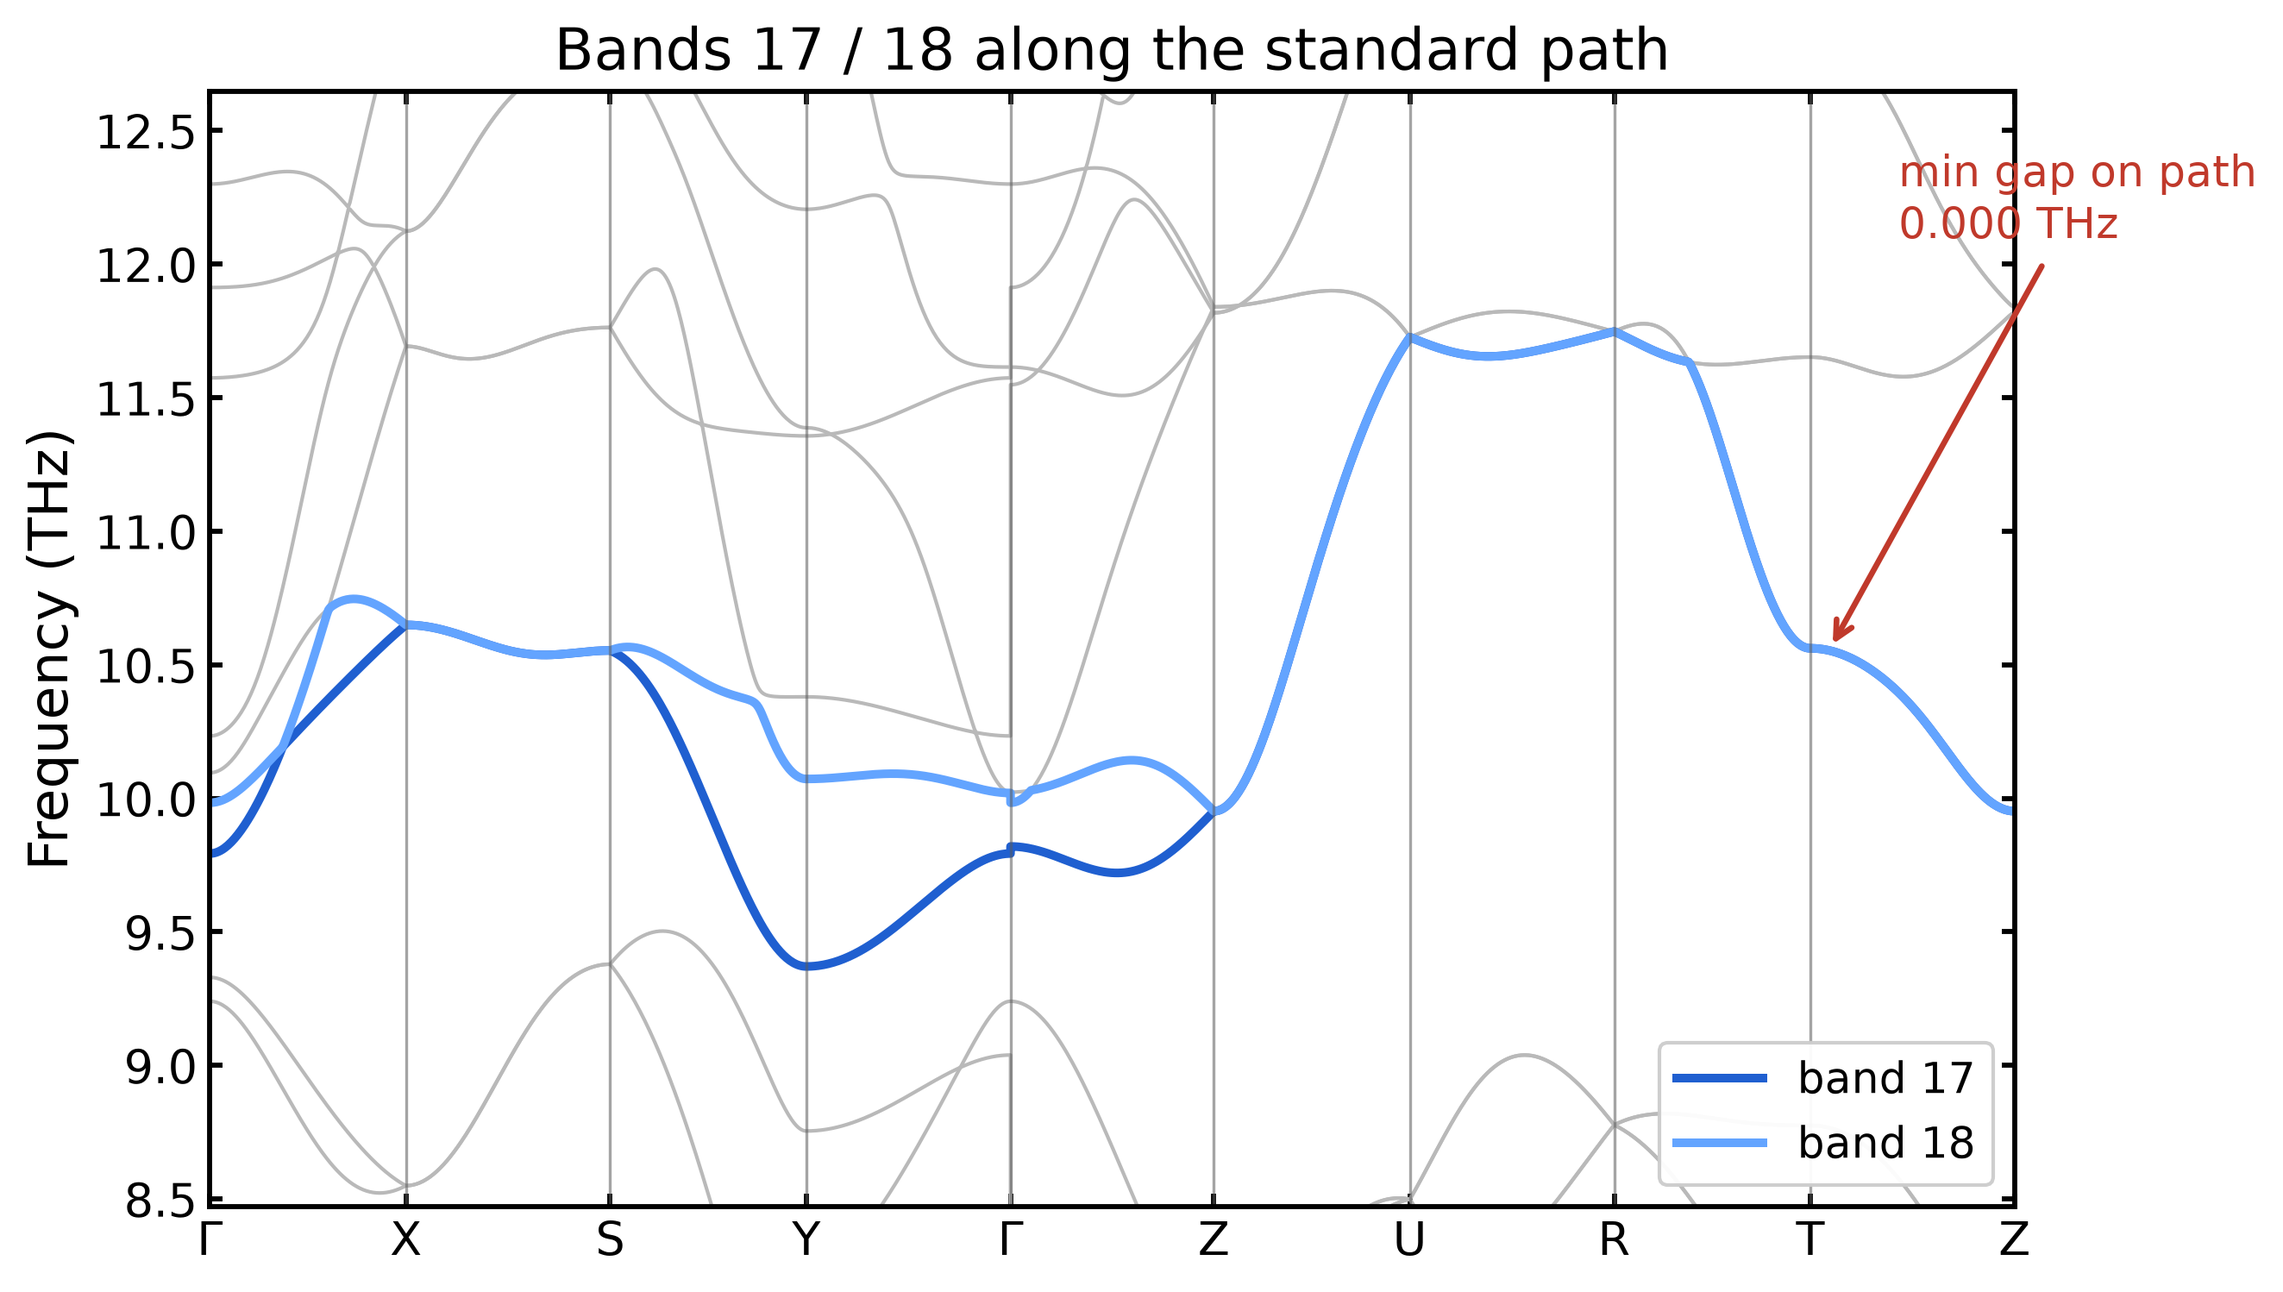
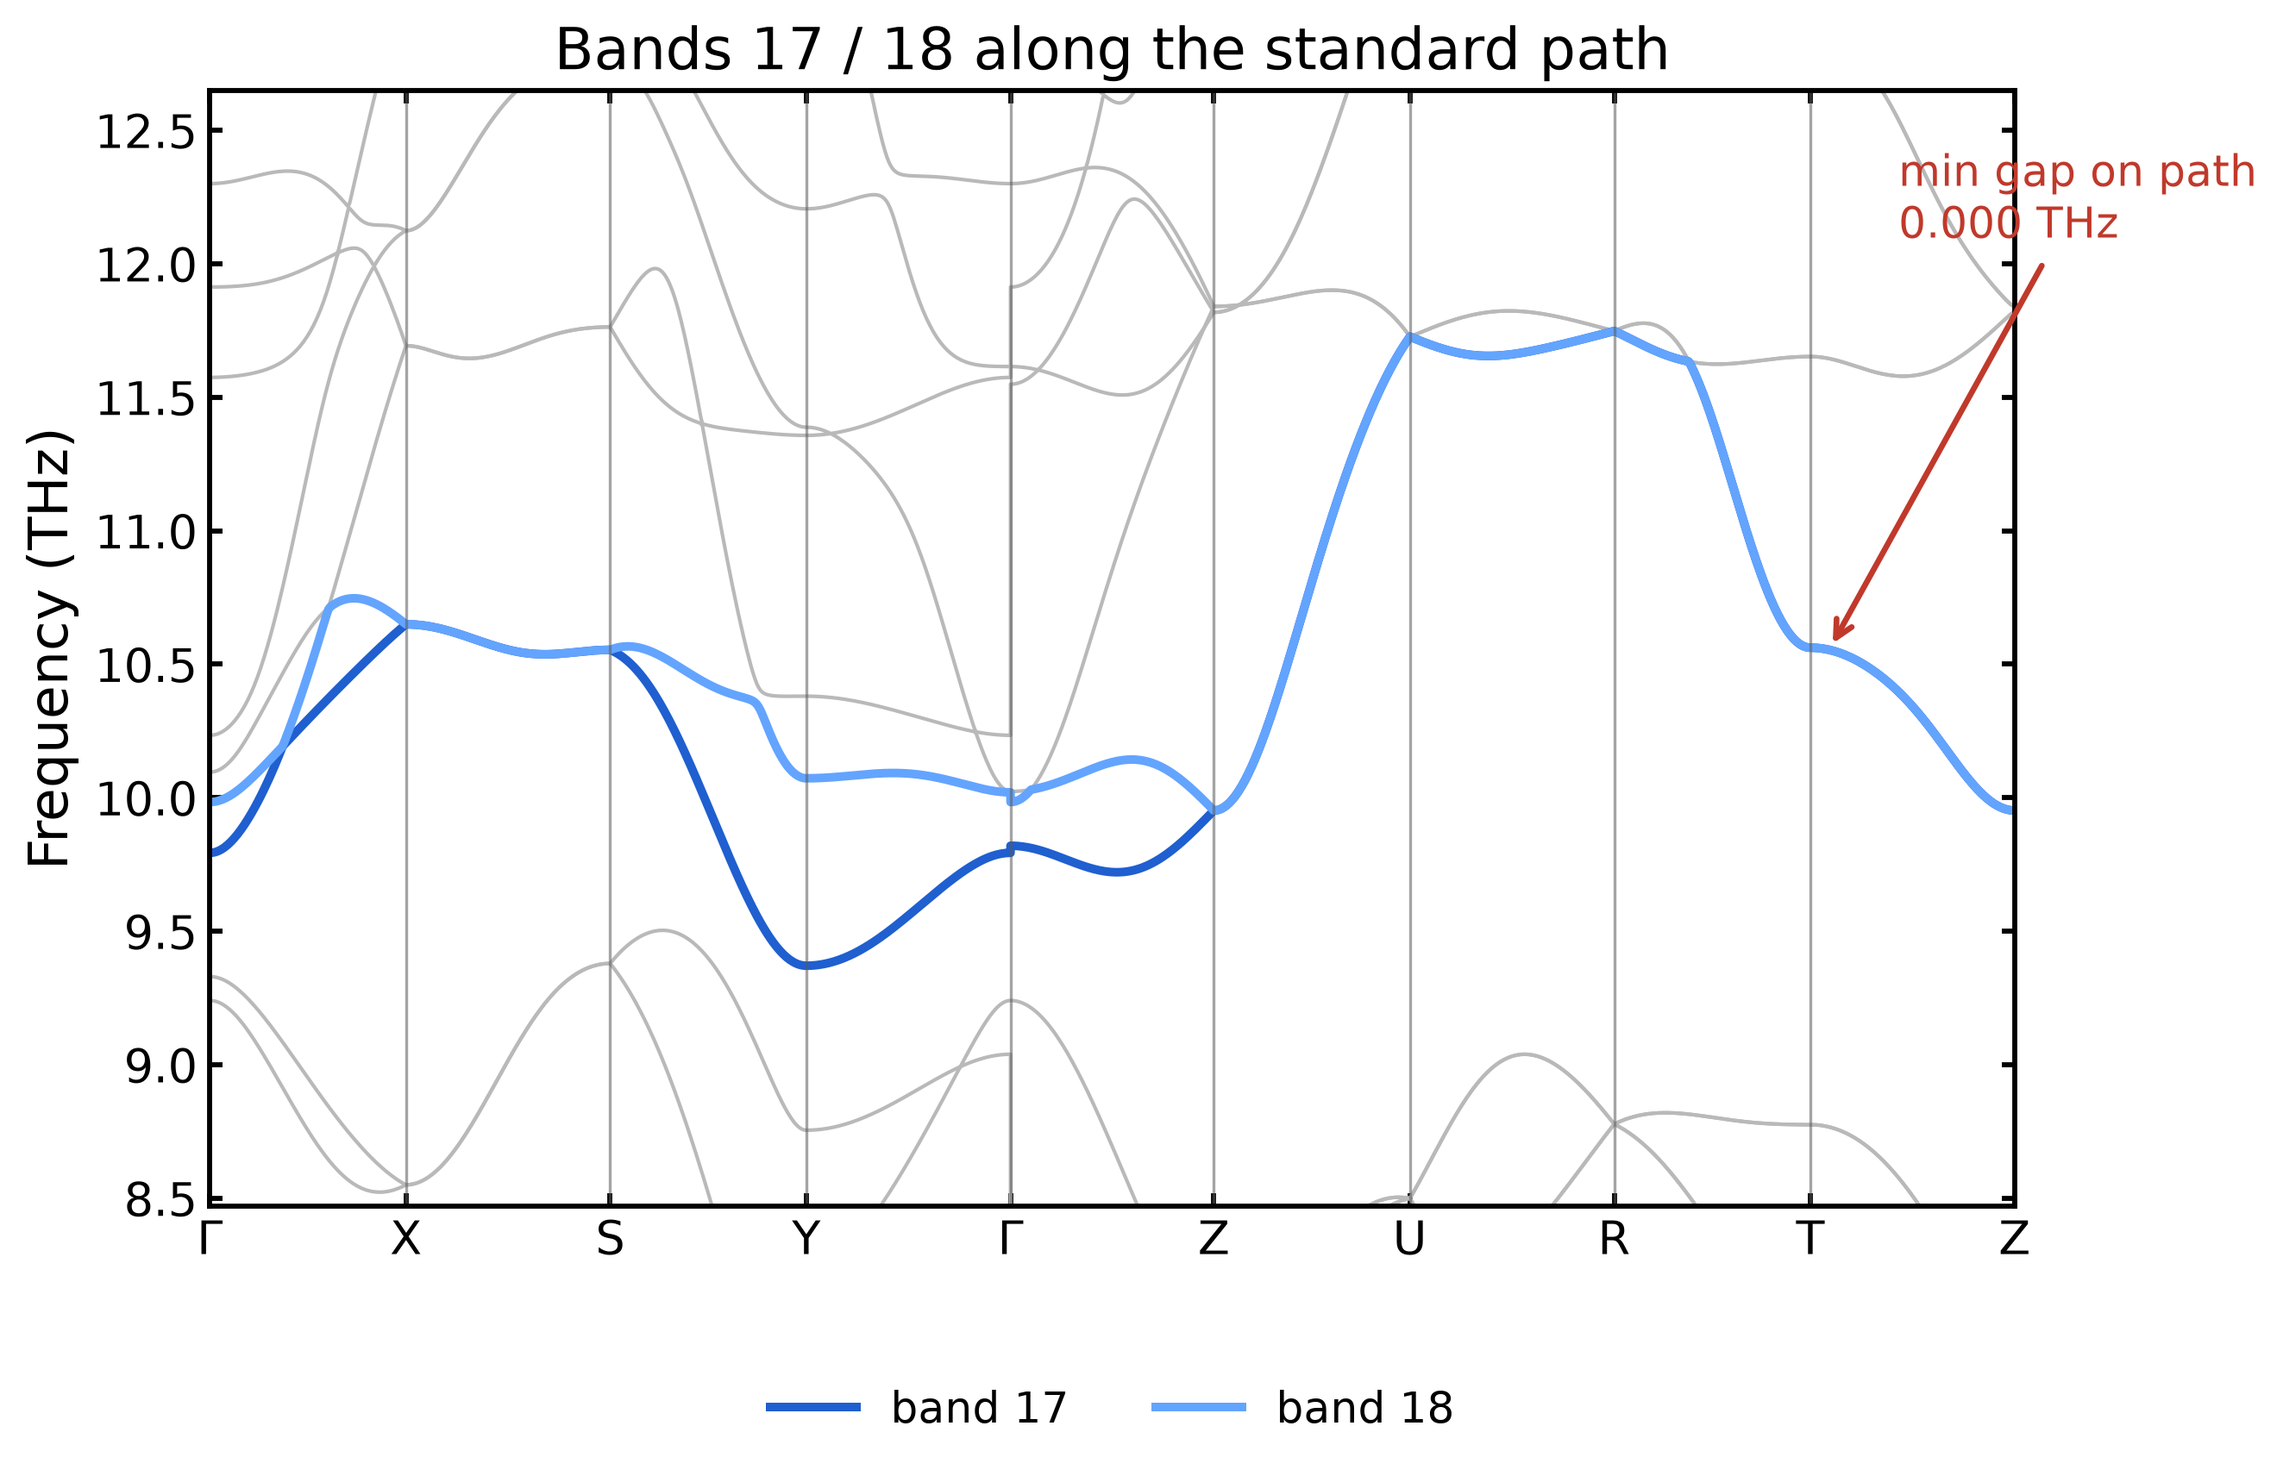
fermiarc LO-TO 누락 수정, WCC 그림을 Simphony 자체 출력과 동일하게, 범례를 축 밖으로
- patch/apply_fermiarc_loto_fix.py: SlabArc 가 LO-TO 를 건너뛰고 있었다.
  fermiarc.f90:214 가 조건 없이 plain ham_qlayer2qlayer 를 부른다.
  surfstat.f90:142 는 phonon+LOTO 일 때 ham_qlayer2qlayer_LOTO 를 부르는데
  fermiarc 에는 그 갈래가 없어서, 바로 위의 ensure_LR_realspace() 가 헛일이 됐다.
  gapshape3D 와 같은 종류의 누락. surfstat 과 동일한 갈래를 넣는다.
  → fig 3 은 LO-TO 없이 계산됐던 것. fig 4(SlabSS)는 원래 정상.
- fermiarc.f90 에 위 패치 + KPLANE 패치 적용.  이 컨테이너에 mpif90 이 없어
  Makefile.gfortran 으로 직렬 빌드해서 검증했다:
  SlabSS 출력이 기존 MPI 바이너리와 max|Δ| = 0.000e+00 으로 완전 일치.
  KPLANE 경고도 사라져 지정한 창이 그대로 유지된다.
- fig6: Simphony 자체 wanniercenter3D_Weyl_*.gnu 와 같은 내용으로 재작성.
  그 스크립트들은 WCC '합' 열만 찍는다 — 밴드별 산점도를 겹치면 가려서 안 보인다.
  노드 좌표와 열 번호를 .gnu 에서 직접 읽고 감김수도 데이터에서 계산한다.
  결과 chirality [+1, -1, -1, +1] 로 PN.out 과 일치.
- fig1/2/5/7 범례를 축 밖(아래)으로 이동 — 그래프와 축을 가리지 않는다.
- fig6_8.py 를 fig8_shift.py 로 분리 (실행해도 새 fig6 을 덮어쓰지 않게)
- run_slab.py: --exe 로 바이너리 지정

Claude-Session: https://claude.ai/code/session_01QhAUpBYpemnn6yKhi2Mgwn

diff --git a/patch/apply_fermiarc_loto_fix.py b/patch/apply_fermiarc_loto_fix.py
@@ -1,0 +1,94 @@
+#!/usr/bin/env python3
+"""Simphony `fermiarc.f90` — SlabArc 가 LO-TO 보정을 건너뛴다.
+
+## 증상
+
+`LOTO_correction = T`, `LOTO_method = 'phonopy'` 로 설정하고 PN.out 에도
+
+```
+ LOTO_correction                   :  T
+ We found LOTO_DT card for LOTO correction
+ We found LOTO_BC card for LOTO correction
+```
+
+가 찍히는데도, `SlabArc_calc = T` 로 얻은 `arc.dat_l/_r/_bulk` 는
+LO-TO 가 **전혀 반영되지 않은** 표면 스펙트럼이다.
+
+## 원인
+
+같은 표면 Green 함수를 쓰는 두 루틴이 서로 다르게 짜여 있다.
+
+`src/surfstat.f90` (SlabSS) 는 제대로 갈래를 탄다:
+
+```fortran
+if (index(Particle,'phonon')/=0.and.LOTO_correction) then
+   call ham_qlayer2qlayer_LOTO(k,H00,H01)
+else
+   call ham_qlayer2qlayer(k,H00,H01)
+endif
+```
+
+`src/fermiarc.f90` (SlabArc / SlabSpintexture / SlabQPI) 는 조건 없이:
+
+```fortran
+call ensure_LR_realspace()          ! 장거리항을 실공간에 만들어는 둔다
+call ham_qlayer2qlayer(k,H00,H01)   ! ...그런데 안 쓰는 판을 부른다
+```
+
+`ham_qlayer2qlayer` 는 `HmnR_LRslab` 를 더하지 않고 per-k 비해석항도 넣지
+않는다.  바로 위의 `ensure_LR_realspace()` 는 결과에 아무 영향이 없는
+헛일이 된다.
+
+`gapshape3D` 가 `ham_bulk_latticegauge` 를 무조건 부르던 것과 같은 종류의
+누락이다 (`apply_gapcube_loto_fix.py` 참조).
+
+## 고침
+
+`surfstat.f90` 과 똑같은 갈래를 넣는다.
+
+되돌리려면 `git checkout src/fermiarc.f90`.
+
+적용:
+```bash
+cd <simphony 루트>          # src/ 가 보이는 곳
+python3 apply_fermiarc_loto_fix.py
+cd src && make
+```
+`module.f90` 을 안 건드리므로 `make clean` 은 필요 없다.
+"""
+import os
+import sys
+
+OLD = """        call ham_qlayer2qlayer(k,H00,H01)
+        call now(time2)"""
+
+NEW = """        !> deal with phonon system: the LO-TO corrected layer Hamiltonian is a
+        !> different routine, exactly as surfstat.f90 branches.  Without this the
+        !> ensure_LR_realspace() call above has no effect and the arc spectrum is
+        !> computed with no LO-TO at all.
+        if (index(Particle,'phonon')/=0.and.LOTO_correction) then
+           call ham_qlayer2qlayer_LOTO(k,H00,H01)
+        else
+           call ham_qlayer2qlayer(k,H00,H01)
+        endif
+        call now(time2)"""
+
+
+def main():
+    path = os.path.join('src', 'fermiarc.f90')
+    if not os.path.isfile(path):
+        sys.exit('src/fermiarc.f90 을 찾을 수 없다. simphony 루트에서 실행할 것.')
+    s = open(path).read()
+    if 'call ham_qlayer2qlayer_LOTO(k,H00,H01)' in s:
+        print('이미 적용되어 있다.  변경 없음.')
+        return
+    if s.count(OLD) != 1:
+        sys.exit('원본 호출부를 유일하게 찾지 못했다 (%d 건). 버전이 다르다.'
+                 % s.count(OLD))
+    open(path, 'w').write(s.replace(OLD, NEW, 1))
+    print('src/fermiarc.f90 수정 완료.')
+    print('이제  cd src && make  로 다시 빌드할 것 (make clean 불필요).')
+
+
+if __name__ == '__main__':
+    main()

diff --git a/scripts/figs/fig6_wcc.py b/scripts/figs/fig6_wcc.py
@@ -1,0 +1,62 @@
+#!/usr/bin/env python3
+"""Fig 6: 네 바일 노드의 구면 Wilson loop (WCC).
+
+Simphony `WeylChirality_calc` 가 뽑아 주는 `wanniercenter3D_Weyl_{1..4}.gnu` 와
+**같은 내용**이다.  그 스크립트들은 `wanniercenter3D_Weyl.dat` 의
+열 2, 3, 4, 5 (= 네 노드 각각의 WCC 합) 만 South→North 로 찍는다.
+합의 감김수가 곧 chirality 이므로, 밴드별 WCC 산점도를 같이 그리면
+오히려 가려서 안 보인다 — 그래서 합만 그린다.
+
+이 컨테이너에 gnuplot 이 없어 같은 열·같은 축 범위로 matplotlib 에 옮겼다.
+(`work/ppchi/wanniercenter3D_Weyl_1.gnu` 참조)
+"""
+import sys, os, re, glob
+import numpy as np
+sys.path.insert(0, os.path.dirname(os.path.abspath(__file__)))
+from style import setup, GREY
+setup()
+import matplotlib.pyplot as plt
+
+D = sys.argv[1] if len(sys.argv) > 1 else 'work/ppchi'
+d = np.loadtxt(os.path.join(D, 'wanniercenter3D_Weyl.dat'))
+t = d[:, 0]
+
+# Simphony 가 만든 .gnu 에서 노드 좌표와 사용 열 번호를 그대로 읽어 온다
+info = []
+for g in sorted(glob.glob(os.path.join(D, 'wanniercenter3D_Weyl_*.gnu'))):
+    s = open(g).read()
+    ttl = re.search(r'set title "Weyl \(([^)]*)\)', s).group(1)
+    col = int(re.search(r'u 1:\s*(\d+)', s).group(1))
+    info.append((ttl.strip(), col))
+
+
+def winding(y):
+    """WCC 합의 감김수 = 언랩한 증분의 총합 (반올림)."""
+    u = np.unwrap(np.asarray(y) * 2 * np.pi) / (2 * np.pi)
+    return int(round(u[-1] - u[0]))
+
+
+RED, BLU = '#c0392b', '#1f5fd0'
+fig, axs = plt.subplots(1, 4, figsize=(17.6, 4.9), sharey=True,
+                        gridspec_kw=dict(wspace=0.16))
+for ax, (ttl, col) in zip(axs, info):
+    y = d[:, col - 1]
+    w = winding(y)
+    c = RED if w > 0 else BLU
+    ax.plot(t, y, 'o', ms=2.6, color=c, rasterized=True)
+    ax.set_xlim(0, 1); ax.set_ylim(0, 1)
+    ax.set_xticks([0, 0.25, 0.5, 0.75, 1.0])
+    ax.set_xticklabels(['S', '', 'equator', '', 'N'])
+    ax.set_xlabel('$k$  on the sphere')
+    ka, kb, kc = [float(x) for x in ttl.split(',')]
+    ax.set_title('$k$ = (%+.5f, %+.5f, %.0f)\n$\\chi = %+d$' % (ka, kb, kc, w),
+                 fontsize=13, pad=8, color=c, fontweight='bold')
+    ax.grid(alpha=0.22, lw=0.7)
+axs[0].set_ylabel('WCC')
+fig.suptitle('Wilson loops on spheres around the four Weyl nodes '
+             '— the winding of the WCC sum is the chirality\n'
+             '$r_0$ = 0.0015 $\\AA^{-1}$,  $N_{k1}$ = 240,  $N_{k2}$ = 801,  bands 1–17   '
+             '(same quantity as Simphony\'s own wanniercenter3D_Weyl_*.gnu)',
+             y=1.13, fontsize=14)
+fig.savefig('figs/fig6_wcc_4weyl.png')
+print('fig6 저장.  chirality =', [winding(d[:, c - 1]) for _, c in info])

diff --git a/scripts/figs/fig8_shift.py b/scripts/figs/fig8_shift.py
@@ -1,34 +1,15 @@
 #!/usr/bin/env python3
-"""Fig 6: Weyl 4점의 Wannier charge center.  Fig 8: pristine vs -0.8% Weyl 위치 추이."""
+"""Fig 8: pristine vs -0.8 % 의 바일 4점 위치 추이.
+
+(fig 6 은 `fig6_wcc.py` 로 분리했다 — Simphony 자체 .gnu 와 같은 내용으로
+WCC 합만 그린다.)
+"""
 import sys, os
 import numpy as np
 sys.path.insert(0, os.path.dirname(os.path.abspath(__file__)))
 from style import setup, GREY
 setup()
 import matplotlib.pyplot as plt
-
-# ---------------- Fig 6 : WCC
-d = np.loadtxt('work/ppchi/wanniercenter3D_Weyl.dat')
-t = d[:, 0]; P = d[:, 1:]
-ng = P.shape[1] // 4
-chi = [1, -1, -1, 1]
-names = ['$(+k_a,+k_b)$', '$(+k_a,-k_b)$', '$(-k_a,+k_b)$', '$(-k_a,-k_b)$']
-fig, axs = plt.subplots(1, 4, figsize=(16, 4.2), sharey=True)
-for w, ax in enumerate(axs):
-    B = P[:, w * ng:(w + 1) * ng]
-    for j in range(ng - 1):                       # 마지막 열은 합(sum) 이라 제외
-        ax.plot(t, B[:, j], '.', ms=1.6, color='#9aa0a6', rasterized=True)
-    s = B[:, -1]
-    ax.plot(t, s, '.', ms=3.2, color='#c0392b' if chi[w] > 0 else '#1f5fd0')
-    ax.set_xlim(0, 1); ax.set_ylim(0, 1)
-    ax.set_xlabel('$\\theta/\\pi$  (sphere polar angle)')
-    ax.set_title('%s   $\\chi=%+d$' % (names[w], chi[w]), fontsize=13)
-    ax.grid(alpha=0.25, lw=0.7)
-axs[0].set_ylabel('WCC  (Wannier charge center)')
-fig.suptitle('Wilson loops on spheres around the four Weyl nodes  ($r_0$=0.0015 Å$^{-1}$, $N_{k2}$=801, bands 1–17)',
-             y=1.02, fontsize=13.5)
-fig.savefig('figs/fig6_wcc_4weyl.png')
-plt.close(fig)
 
 # ---------------- Fig 8 : Weyl 위치 추이 (표준 a,b,c 좌표)
 RED, BLU = '#c0392b', '#1f5fd0'
@@ -92,5 +73,5 @@ fig.suptitle('Weyl motion under biaxial compression — toward the mirror lines,
              y=0.99, fontsize=15.5)
 fig.savefig('figs/fig8_weyl_shift.png')
 plt.close(fig)
-print('fig6, fig8 저장')
+print('fig8 저장')
 print('이동량 (표준좌표): Delta k_a=%+.5f  Delta k_b=%+.5f  |Delta k|=%.5f' % (dka, dkb, dk))

diff --git a/scripts/figs/fig5_cone.py b/scripts/figs/fig5_cone.py
@@ -29,9 +29,9 @@ i = np.unravel_index(np.argmin(E18 - E17), E17.shape)
 w0 = E17[i]
 
 BLU, ORG = '#2b6cb0', '#dd6b20'
-fig = plt.figure(figsize=(15.2, 7.0))
+fig = plt.figure(figsize=(15.2, 7.6))
 gs = fig.add_gridspec(1, 2, width_ratios=[1.45, 1.0], wspace=0.26,
-                      left=0.015, right=0.975, bottom=0.10, top=0.90)
+                      left=0.015, right=0.975, bottom=0.17, top=0.92)
 
 # ---------------- (a) 3D 콘
 ax = fig.add_subplot(gs[0], projection='3d')
@@ -69,7 +69,8 @@ ax.legend(handles=[Line2D([], [], color=BLU, lw=4, label='band 17'),
                    Line2D([], [], color=ORG, lw=4, label='band 18'),
                    Line2D([], [], color='k', lw=2.4, ls='-', label='cut along $\\Delta k_a$'),
                    Line2D([], [], color='k', lw=2.4, ls='--', label='cut along $\\Delta k_b$')],
-          loc='upper left', bbox_to_anchor=(-0.02, 0.99), frameon=False, fontsize=12)
+          loc='upper center', bbox_to_anchor=(0.5, -0.02), ncol=2,
+          frameon=False, fontsize=12)
 
 # ---------------- (b) type-II 증거: 두 주축 절단
 bx = fig.add_subplot(gs[1])
@@ -84,8 +85,9 @@ bx.set_xlabel('$\\Delta k$  (reduced)')
 bx.set_ylabel('Frequency (THz)')
 bx.set_title('(b)  cuts through the node', fontsize=15, pad=10)
 bx.grid(alpha=0.22, lw=0.7)
-bx.legend(loc='upper left', fontsize=11.5, frameon=False)
-bx.text(0.97, 0.06,
+bx.legend(loc='upper center', bbox_to_anchor=(0.5, -0.13), ncol=2,
+          fontsize=11.5, frameon=False)
+bx.text(0.97, 0.035,
         'along $\\Delta k_a$ both branches rise\n'
         '$\\Rightarrow$ tilt 2.44 > cone slope 0.97 THz/rlu\n'
         r'$\Rightarrow$ ' + 'type-II Weyl point',

diff --git a/scripts/figs/fig7_overlay.py b/scripts/figs/fig7_overlay.py
@@ -19,7 +19,7 @@ SETS = [('parent_pristine', 0.0, 'pristine  (0 %)'),
 cmap = plt.get_cmap('rainbow')
 norm = Normalize(vmin=-3.0, vmax=0.0)
 
-fig, axs = plt.subplots(1, 2, figsize=(15.4, 6.0), gridspec_kw=dict(width_ratios=[1.55, 1], wspace=0.2))
+fig, axs = plt.subplots(1, 2, figsize=(15.4, 6.3), gridspec_kw=dict(width_ratios=[1.55, 1], wspace=0.2))
 x = None
 for tag, eps, lab in SETS:
     d = np.loadtxt('figs/bulkek_%s.dat' % tag)
@@ -42,8 +42,9 @@ for ax, ylim, ttl in ((axs[0], (0, 24.4), '(a)  all 36 branches'),
     ax.set_xticks(ticks); ax.set_xticklabels(LAB); ax.set_xlim(x[0], x[-1])
     ax.set_ylim(*ylim); ax.set_ylabel('Frequency (THz)')
     ax.set_title(ttl, loc='left')
-axs[0].legend(loc='upper left', ncol=2, framealpha=0.94, fontsize=11.5)
-axs[1].legend(loc='lower left', framealpha=0.94, fontsize=11.5)
+h, l = axs[1].get_legend_handles_labels()
+fig.legend(h, l, loc='lower center', bbox_to_anchor=(0.5, -0.055),
+           ncol=len(l), frameon=False, fontsize=13)
 sm = ScalarMappable(norm=norm, cmap=cmap); sm.set_array([])
 cb = fig.colorbar(sm, ax=axs, fraction=0.022, pad=0.015)
 cb.set_label('biaxial strain (%)')

diff --git a/scripts/figs/fig2_node.py b/scripts/figs/fig2_node.py
@@ -19,7 +19,7 @@ n = Ec.shape[1] // 2
 xa, Ea = xc[:n], Ec[:, :n]
 xb, Eb = xc[n:] - xc[n], Ec[:, n:]
 
-fig, axes = plt.subplots(1, 3, figsize=(15.5, 5.2),
+fig, axes = plt.subplots(1, 3, figsize=(15.5, 5.6),
                          gridspec_kw=dict(width_ratios=[2.15, 1, 1], wspace=0.28))
 
 ax = axes[0]
@@ -35,7 +35,8 @@ ax.text((ticks[5] + ticks[9]) / 2, 11.62, '$k_c=\\frac{1}{2}$ nodal plane\n(2$_1
         ha='center', va='top', fontsize=11, color='#a33')
 ax.set_xticks(ticks); ax.set_xticklabels(LAB); ax.set_xlim(x[0], x[-1])
 ax.set_ylim(9.1, 11.95); ax.set_ylabel('Frequency (THz)')
-ax.legend(loc='lower left', frameon=True, framealpha=0.95)
+ax.legend(loc='upper center', bbox_to_anchor=(0.5, -0.16), ncol=2,
+          frameon=False, fontsize=12)
 ax.set_title('(a)  bands 17 / 18 on the standard path', loc='left')
 
 for ax, xx, EE, ttl, sub in ((axes[1], xa, Ea, '(b)  cut along $k_a$', '$k_b$=0.0708, $k_c$=0'),

diff --git a/scripts/figs/run_slab.py b/scripts/figs/run_slab.py
@@ -53,10 +53,12 @@ def main():
     ap.add_argument('--np', dest='npl', type=int, default=5)
     ap.add_argument('--kpath', nargs='*', default=None)
     ap.add_argument('--kplane', nargs='*', default=None)
+    ap.add_argument('--exe', default=None, help='pn.x 경로 (기본: simphony/src/pn.x)')
     a = ap.parse_args()
     patch(os.path.join(a.dir, 'pn.in'), a.mode, a.nk1, a.nk2, a.omin, a.omax,
           a.onum, a.earc, a.eta, a.npl, a.kpath, a.kplane)
-    subprocess.run([os.path.join(ROOT, 'simphony', 'src', 'pn.x')], cwd=a.dir,
+    exe = a.exe or os.path.join(ROOT, 'simphony', 'src', 'pn.x')
+    subprocess.run([exe], cwd=a.dir,
                    stdout=open(os.path.join(a.dir, 'run.log'), 'w'),
                    stderr=subprocess.STDOUT, check=False)
     for f in sorted(os.listdir(a.dir)):

diff --git a/scripts/figs/fig1_2_bands.py b/scripts/figs/fig1_2_bands.py
@@ -47,7 +47,8 @@ frame(ax, (lo, hi))
 ax.annotate('min gap on path\n%.3f THz' % g[i], xy=(x[i], (E[16][i] + E[17][i]) / 2),
             xytext=(x[i] + 0.32 * (x[-1] - x[0]) * 0.12, hi - 0.55),
             arrowprops=dict(arrowstyle='->', color='#c0392b', lw=1.6), color='#c0392b', fontsize=12)
-ax.legend(loc='lower right', frameon=True, framealpha=0.95)
+ax.legend(loc='upper center', bbox_to_anchor=(0.5, -0.13), ncol=2,
+          frameon=False, fontsize=12)
 ax.set_title('Bands 17 / 18 along the standard path')
 fig.savefig('figs/fig2_bands17_18_highlight.png')
 plt.close(fig)
